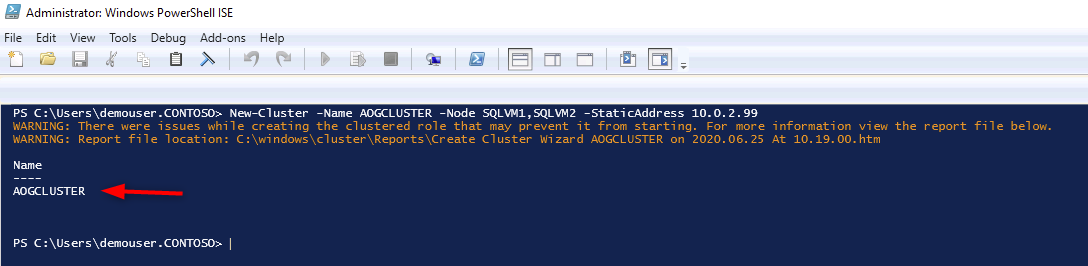
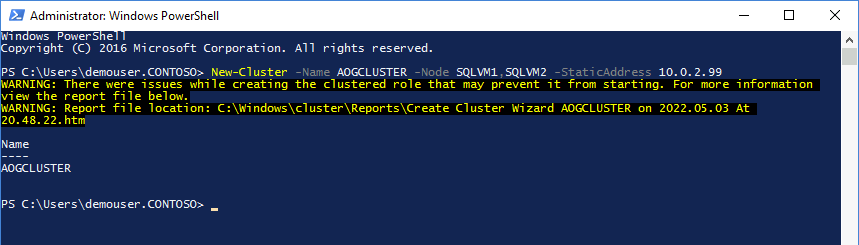
test fix updates

diff --git a/Hands-on lab/HOL step-by step - Building a resilient IaaS architecture.md b/Hands-on lab/HOL step-by step - Building a resilient IaaS architecture.md
@@ -127,12 +127,13 @@ A template will be used to save time. You will configure each tier in subsequent
 
     ![Screenshot of the Azure portal showing the HA template contents.](images/ha-template.png "Screenshot of the Azure portal showing the HA template contents.")
 
-    Note that the template contains four child templates, containing the various resources required for:
+    Note that the template contains five child templates, containing the various resources required for:
 
     -   The ADVM2 virtual machine, which will be a second Domain Controller.
     -   The SQLVM2 virtual machine, which will be a second SQL Server.
     -   The WebVM2 virtual machine, which will be a second web server.
     -   Two load balancers, one for the web tier, and one for the SQL tier.
+    -   The virtual network with the proper DNS configuration in place.
 
 4.  You can check the HA resource deployment status by navigating to the **ContosoRG1** resource group, selecting **Deployments** in the resource group left-nav, and checking the status of the deployments. Make sure the deployment status is **Succeeded** for all templates before proceeding the next task.
 
@@ -141,13 +142,13 @@ A template will be used to save time. You will configure each tier in subsequent
 
 ### Task 2: Configure HA for the Domain Controller tier
 
-In this task you will configure the virtual network to use the redundant Domain Controller VMs.
+In this task you will reboot all the virtual machines to ensure they receive the update DNS settings.
 
-When using a domain controller VM in Azure, other VMs in the virtual network must be configured to use the domain controller as their DNS server. This is achieved by setting the DNS settings in the virtual network. These settings are then picked up by the VMs when they reboot or renew their DHCP lease.
+When using a domain controller VM in Azure, other VMs in the virtual network must be configured to use the domain controller as their DNS server. This is achieved with the DNS settings in the virtual network. These settings are then picked up by the VMs when they reboot or renew their DHCP lease.
 
 The initial deployment included a first domain controller VM, **ADVM1**, with static private IP address **10.0.3.100**. The initial deployment also configured this IP address in the VNet DNS settings.
 
-The HA resources template has added a second domain controller **ADVM2**, with static private IP address **10.0.3.101**. This server has already been promoted to be a domain controller using a CustomScriptExtension (you can review this script if you like, you'll find it linked from the ADVM2 deployment template).
+The HA resources template has added a second domain controller **ADVM2**, with static private IP address **10.0.3.101**. This server has already been promoted to be a domain controller using a CustomScriptExtension (you can review this script if you like, you'll find it linked from the ADVM2 deployment template). The template also updated the DNS setting on the virtual network to include the IP address of the second domain controller.
 
 In this task, you will reboot all the servers to ensure they have the latest DNS settings.
 
@@ -194,7 +195,11 @@ In this task, you will build a Windows Failover Cluster and configure SQL Always
 
     > **Note:** The load-balancing rule in the load balancer has been created with **Floating IP (direct server return)** enabled. This is important when using the Azure load balancer for SQL Server AlwaysOn Availability Groups.
 
-7.  From the Azure portal, navigate to the **SQLVM1** virtual machine, select **Connect**, then choose **Bastion**. Connect to the machine using the following credentials:
+7.  From the Azure portal, navigate to the **SQLVM1** virtual machine, select **Connect**, then choose **Bastion**.
+   
+    ![Azure portal showing selecting Connect and then Bastion.](images/ha-sqlvm1-bastion.png)
+
+8.  Connect to the machine using the following credentials:
 
     - **Username**: `demouser@contoso.com`
     - **Password**: `Demo!pass123`
@@ -202,14 +207,13 @@ In this task, you will build a Windows Failover Cluster and configure SQL Always
     
     > **Note:** When using Azure Bastion to connect to a VM using domain credentials, the username must be specified in the format `user@domain-fqdn`, and **not** in the format `domain\user`.
 
-    ![Azure portal showing connection to SQLVM1 using Bastion.](images/ha-sqlvm1-bastion.png "Azure Bastion")
-   
+    ![Azure portal showing connection to SQLVM1 using Bastion.](images/ha-sqlvm1-bastion1.png)
 
-8.  On **SQLVM1**, select **Start** and then choose **Windows PowerShell ISE**.
+9.  On **SQLVM1**, select **Start** and then choose **Windows PowerShell**.
 
     ![Screenshot of the Windows PowerShell ISE icon.](images/image71.png "Windows PowerShell ISE icon")
 
-9.  Copy and paste  the following command into PowerShell ISE and execute it. This will create the Windows Failover Cluster and add all the SQL VMs as nodes in the cluster. It will also assign a static IP address of **10.0.2.99** to the new Cluster named **AOGCLUSTER**.
+10. Copy and paste  the following command into PowerShell ISE and execute it. This will create the Windows Failover Cluster and add all the SQL VMs as nodes in the cluster. It will also assign a static IP address of **10.0.2.99** to the new Cluster named **AOGCLUSTER**.
 
     ```PowerShell
     New-Cluster -Name AOGCLUSTER -Node SQLVM1,SQLVM2 -StaticAddress 10.0.2.99
@@ -219,139 +223,139 @@ In this task, you will build a Windows Failover Cluster and configure SQL Always
 
     >**Note:** It is possible to use a wizard for this task, but the resulting cluster will require additional configuration to set the static IP address in Azure.
 
-10. After the cluster has been created, select **Start** and then **Windows Administrative Tools**. Locate and open the **Failover Cluster Manager**.
+11. After the cluster has been created, select **Start** and then **Windows Administrative Tools**. Locate and open the **Failover Cluster Manager**.
 
     ![Screenshot of the Failover Cluster Manager shortcut icon.](images/image154.png "Failover Cluster Manager shortcut icon")
 
-11. When the cluster opens, select **Nodes** and the SQL Server VMs will show as nodes of the cluster and show their status as **Up**.
+12. When the cluster opens, select **Nodes** and the SQL Server VMs will show as nodes of the cluster and show their status as **Up**.
 
     ![In Failover Cluster Manager, Nodes is selected in the tree view, and two nodes display in the details pane.](images/ha-fcm-2nodes.png "Failover Cluster Manager")
 
-12. If you select **Roles**, you will notice that currently, there aren't any roles assigned to the cluster.
+13. If you select **Roles**, you will notice that currently, there aren't any roles assigned to the cluster.
 
     ![In Failover Cluster Manager, Roles is selected in the tree view, and zero roles display in the details pane.](images/ha-fcm-0roles.png "Failover Cluster Manager")
 
-13. Select Networks, and you will see **Cluster Network 1** with status **Up**. If you navigate to the network, you will see the IP address space, and on the lower tab you can select **Network Connections** and review the nodes.
+14. Select Networks, and you will see **Cluster Network 1** with status **Up**. If you navigate to the network, you will see the IP address space, and on the lower tab you can select **Network Connections** and review the nodes.
 
     ![In Failover Cluster Manager, Networks is selected in the tree view, and the network displays in the details pane.](images/ha-fcm-1network.png "Failover Cluster Manager")
 
-14. Right-click **AOGCLUSTER,** then select **More Actions**, **Configure Cluster Quorum Settings**.
+15. Right-click **AOGCLUSTER,** then select **More Actions**, **Configure Cluster Quorum Settings**.
 
     ![In Failover Cluster Manager, a call out says to right-click the cluster name in the tree view, then select More Actions, and then select Configure Cluster Quorum Settings.](images/image159.png "Failover Cluster Manager")
 
-15. On the **Configure Cluster Quorum Wizard** select **Next**, then choose **Select the quorum witness**. Then, select **Next** again.
+16. On **Before you Begin** in the wizard, select **Next**. Then choose **Select the quorum witness**. Then, select **Next** again.
 
     ![On the Select Quorum Configuration Option screen of the Configure Cluster Quorum Wizard, the radio button for Select the quorum witness is selected.](images/image160.png "Configure Cluster Quorum Wizard")
 
-16. Select **Configure a cloud witness** and **Next**.
+17. Select **Configure a cloud witness** and **Next**.
 
     ![On the Select Quorum Witness screen, the radio button for Configure a cloud witness is selected.](images/image161.png "Select Quorum Witness screen")
 
-17. Copy the **storage account name** and **storage account key** values which you noted earlier and paste them into their respective fields on the form. Leave the Azure Service endpoint as configured. Then, select **Next**.
+18. Copy the **storage account name** and **storage account key** values which you noted earlier and paste them into their respective fields on the form. Leave the Azure Service endpoint as configured. Then, select **Next**.
 
     ![Fields on the Configure cloud witness screen are set to the previously defined settings.](images/ha-cloudwitness-key.png "Configure cloud witness screen")
 
-18. Select **Next** on the Confirmation screen.
+19. Select **Next** on the Confirmation screen.
 
     ![On the Confirmation screen, the Next button is selected.](images/image163.png "Confirmation screen")
 
-19. Select **Finish**.
+20. Select **Finish**.
 
     ![Finish is selected on the Summary screen.](images/image164.png "Summary screen")
 
-20. Select the name of the Cluster again and the **Cloud Witness** should now appear in the **Cluster Resources**. It's important to always use a third data center, in your case here a third Azure Region to be your Cloud Witness.
+21. Select the name of the Cluster again and the **Cloud Witness** should now appear in the **Cluster Resources**. It's important to always use a third data center, in your case here a third Azure Region to be your Cloud Witness.
 
     ![Under Cluster Core Resources, the Cloud Witness status is Online.](images/image165.png "Cluster Core Resources section")
 
-21. Select **Start** and launch **SQL Server 2017 Configuration Manager**.
+22. Select **Start** and launch **SQL Server 2017 Configuration Manager**.
 
     ![Screenshot of the SQL Server 2017 Configuration Manager option on the Start menu.](images/image166.png "SQL Server 2017 Configuration Manager option")
 
-22. Select **SQL Server Services**, then right-click **SQL Server (MSSQLSERVER)** and select **Properties**.
+23. Select **SQL Server Services**, then right-click **SQL Server (MSSQLSERVER)** and select **Properties**.
 
     ![In SQL Server 2017 Configuration Manager, in the left pane, SQL Server Services is selected. In the right pane, SQL Server (MSSQLSERVER) is selected, and from its right-click menu, Properties is selected.](images/image167.png "SQL Server 2017 Configuration Manager")
 
-23. Select the **AlwaysOn High Availability** tab and check the box for **Enable Always OnAvailability Groups**. Select **Apply** and then select **OK** on the message that notifies you that changes won't take effect until after the server is restarted.
+24. Select the **AlwaysOn High Availability** tab and check the box for **Enable Always OnAvailability Groups**. Select **Apply** and then select **OK** on the message that notifies you that changes won't take effect until after the server is restarted.
 
     ![In the SQL Server Properties dialog box, on the AlwaysOn High Availability tab, the Enable Always OnAvailability Groups checkbox is checked and the Apply button is selected.](images/image168.png "SQL Server Properties dialog box")
 
     ![A pop-up warns that any changes made will not take effect until the service stops and restarts. The OK button is selected.](images/image169.png "Warning pop-up")
 
-24. On the **Log On** tab, change the service account to `contoso\demouser` with the password `Demo!pass123`. Select **OK** to accept the changes, and then select **Yes** to confirm the restart of the server.
+25. On the **Log On** tab, change the service account to `contoso\demouser` with the password `Demo!pass123`. Select **OK** to accept the changes, and then select **Yes** to confirm the restart of the server.
 
     ![In the SQL Server Properties dialog box, on the Log On tab, fields are set to the previously defined settings. The OK button is selected.](images/ha-sql-logon.png "SQL Server Properties dialog box")
 
     ![A pop-up asks you to confirm that you want to make the changes and restart the service. The Yes button is selected.](images/image171.png "Confirm Account Change pop-up")
 
-25. Return to the Azure portal and open a new Azure Bastion session to **SQLVM2**. Launch **SQL Server 2017 Configuration Manager** and repeat the steps above to **Enable SQL AlwaysOn** and change the **Log On** username. Make sure that you have restarted the SQL Service.
+26. Return to the Azure portal and open a new Azure Bastion session to **SQLVM2**. Launch **SQL Server 2017 Configuration Manager** and repeat the steps above to **Enable SQL AlwaysOn** and change the **Log On** username. Make sure that you have restarted the SQL Service.
 
-26. Return to the Azure portal and open a second Azure Bastion session to **SQLVM2**. This time use `demouser` as the username instead of `demouser@contoso.com`.
+27. Return to the Azure portal and open a second Azure Bastion session to **SQLVM2**. This time use `demouser` as the username instead of `demouser@contoso.com`.
 
-27. Launch SQL Server Management Studio and expand **Security** and then **Logins**. You'll notice that only `SQLVM2\demouser` is listed.
+28. Launch SQL Server Management Studio and expand **Security** and then **Logins**. You'll notice that only `SQLVM2\demouser` is listed.
 
     ![In SQL Server management studio, SQLVM2 is expanded, then Security is expanded, then Login is expanded. Only the SQLVM2\demouser account is seen.](images/perm-checkdomainuser.png)
 
-28. Right-click on **Logins** and then select **New Login...**
+29. Right-click on **Logins** and then select **New Login...**
 
     ![The dialog box from the right-click on Logins is shown with an option to select New Login.](images/perm-newlogin.png)
 
-29. In **Login name:**, type contoso\demouser, then select **Server Roles**.
+30. In **Login name:**, type contoso\demouser, then select **Server Roles**.
 
     ![The Login-New dialog box is displayed. In the Login name: box, the username contoso\demouser has been typed in. From here, it shows you selected the Server Roles tab in the left side navigation.](images/perm-addusername.png)
 
-30. Check the box for **sysadmin** and select **OK**. You'll now see `contoso\demouser` listed in the login list.
+31. Check the box for **sysadmin** and select **OK**. You'll now see `contoso\demouser` listed in the login list.
 
     ![The Server Roles tab is shown in the Login - New dialog box. In this dialog box, public remains checked, and a check is added to the sysadmin option.](images/perm-addsysadmin.png)
 
-31. Return to your session with **SQLVM1**. Use the Start menu to launch **Microsoft SQL Server Management Studio 18** and connect to the local instance of SQL Server. (Located in the Microsoft SQL Server Tools folder).
+32. Return to your session with **SQLVM1**. Use the Start menu to launch **Microsoft SQL Server Management Studio 18** and connect to the local instance of SQL Server. (Located in the Microsoft SQL Server Tools folder).
 
     ![Screenshot of Microsoft SQL Server Management Studio 18 on the Start menu.](images/image172.png "Microsoft SQL Server Management Studio 18")
 
-32. Select **Connect** to sign on to **SQLVM1**. **Note**: The username for your lab should show **CONTOSO\demouser**.
+33. Select **Connect** to sign on to **SQLVM1**. **Note**: The username for your lab should show **CONTOSO\demouser**.
 
     ![Screenshot of the Connect to Server dialog box.](images/image173.png "Connect to Server dialog box")
 
-33. Right-click **Always On High Availability**, then select **New Availability Group Wizard**.
+34. Right-click **Always On High Availability**, then select **New Availability Group Wizard**.
 
     ![In Object Explorer, AlwaysOn High Availability is selected, and from its right-click menu, New Availability Group Wizard is selected.](images/image174.png "SQ Server Management Studio, Object Explorer")
 
-34. Select **Next** on the Wizard.
+35. Select **Next** on the Wizard.
 
     ![On the New Availability Group Wizard begin page, Next is selected.](images/image175.png "New Availability Group Wizard ")
 
-35. Provide the name **BCDRAOG** for the **Availability group name**, then select **Next**.
+36. Provide the name **BCDRAOG** for the **Availability group name**, then select **Next**.
 
     ![The Specify availability group options form displays the previous availability group name.](images/image176.png "Specify availability group options page")
 
-36. Select the **ContosoInsurance Database**, then select **Next**.
+37. Select the **ContosoInsurance Database**, then select **Next**.
 
     ![The ContosoInsurance database is selected from the user databases list.](images/image177.png "Select Databases page")
 
-37. On the **Specify Replicas** screen next to **SQLVM1**, select **Automatic Failover**.
+38. On the **Specify Replicas** screen next to **SQLVM1**, select **Automatic Failover**.
 
     ![On the Replicas tab, for SQLVM1, the checkbox for Automatic Failover (Up to 3) is selected.](images/image178.png "Specify Replicas screen")
 
-38. Select **Add Replica**.
+39. Select **Add Replica**.
 
     ![Screenshot of the Add replica button.](images/image179.png "Add replica button")
 
-39. On the **Connect to Server** dialog box enter the Server Name of **SQLVM2** and select **Connect**. **Note**: The username for your lab should show **CONTOSO\demouser**.
+40. On the **Connect to Server** dialog box enter the Server Name of **SQLVM2** and select **Connect**. **Note**: The username for your lab should show **CONTOSO\demouser**.
 
     ![Screenshot of the Connect to Server dialog box for SQLVM2.](images/image180.png "Connect to Server dialog box")
 
-40. For **SQLVM2**, select Automatic Failover and Availability Mode of Synchronous commit.
+41. For **SQLVM2**, select Automatic Failover and Availability Mode of Synchronous commit.
 
     ![On the Replicas tab, for SQLVM2, the checkbox for Automatic Failover (Up to 3) is selected, and availability mode is set to synchronous commit.](images/image181.png "Specify Replicas Screen")
 
-41. Select **Endpoints** and review these that the wizard has created.
+42. Select **Endpoints** and review these that the wizard has created.
 
     ![On the Endpoints tab, the three servers are listed.](images/ha-ag-endpoints.png "Specify Endpoints screen")
 
-42. Next, select **Listener**. Then, select the **Create an availability group listener**.
+43. Next, select **Listener**. Then, select the **Create an availability group listener**.
 
     ![On the Listener tab, the radio button for Create an availability group listener is selected.](images/image185.png "Specify Listener screen")
 
-43. Add the following details:
+44. Add the following details:
 
     - **Listener DNS Name**: BCDRAOG
     - **Port**: 1433
@@ -359,55 +363,55 @@ In this task, you will build a Windows Failover Cluster and configure SQL Always
 
     ![Fields for the Listener details are set to the previously defined settings.](images/image186.png "Listener details")
 
-44. Next, select **Add**.
+45. Next, select **Add**.
 
     ![The Add button is selected beneath an empty subnet table.](images/image187.png "Add button")
 
-45. Select the Subnet of **10.0.2.0/24** and then add IPv4 **10.0.2.100** and select **OK**. This is the IP address of the Internal Load Balancer that is in front of the **SQLVM1** and **SQLVM2** in the **Data** subnet running in the **Primary** Site.
+46. Select the Subnet of **10.0.2.0/24** and then add IPv4 **10.0.2.100** and select **OK**. This is the IP address of the Internal Load Balancer that is in front of the **SQLVM1** and **SQLVM2** in the **Data** subnet running in the **Primary** Site.
 
     ![The Add IP Address dialog box fields are set to the previously defined settings.](images/image188.png "Add IP Address dialog box")
 
-46. Select **Next**.
+47. Select **Next**.
 
     ![On the Listener tab, the Next button is selected.](images/ha-ag-listener-next.png "Next button")
 
-47. On the **Select Initial Data Synchronization** screen, make sure that **Automatic seeding** is selected and select **Next**.
+48. On the **Select Initial Data Synchronization** screen, make sure that **Automatic seeding** is selected and select **Next**.
 
     ![On the Select Initial Data Synchronization screen, the radio button for Automatic seeding is selected. The Next button is selected at the bottom of the form.](images/image192.png "Select Initial Data Synchronization screen")
 
-48. On the **Validation** screen, you should see all green. Select **Next**.
+49. On the **Validation** screen, you should see all green. Select **Next**.
 
     ![The Validation screen displays a list of everything it is checking, and the results for each, which all display success. The Next button is selected.](images/ha-ag-valid.png "Validation screen")
 
-49. On the Summary page select **Finish**.
+50. On the Summary page select **Finish**.
 
     ![On the Summary page, the Finish button is selected.](images/image194.png "Summary page")
 
-50. Once the AOG is built, check each task was successful and select **Close**.
+51. Once the AOG is built, check each task was successful and select **Close**.
 
     ![On the New Availability Group Results page, a message says the wizard has completed successfully, and results for all steps is success. The Close button is selected.](images/ha-ag-results.png "New Availability Group Results page")
 
-51. Move back to **SQL Management Studio** on **SQLVM1** and expand the **Always On High Availability** item in the tree view. Under Availability Groups, expand the **BCDRAOG (Primary)** item.
+52. Move back to **SQL Management Studio** on **SQLVM1** and expand the **Always On High Availability** item in the tree view. Under Availability Groups, expand the **BCDRAOG (Primary)** item.
 
     ![In SQL Management Studio, Always On High Availability is expanded in the tree view.](images/ha-ag-explorer.png "SQL Management Studio")
 
-52. Right-click **BCDRAOG (Primary)** and then select **Show Dashboard**. You should see that all the nodes have been added and are now "Green".
+53. Right-click **BCDRAOG (Primary)** and then select **Show Dashboard**. You should see that all the nodes have been added and are now "Green".
 
     ![Screenshot of the BCDRAOG Dashboard indicating the status of all SQL Server VMs as healthy.](images/ha-ag-dashboard.png "BCDRAOG Dashboard")
 
-53. Next, select **Connect** and then **Database Engine** in SQL Management Studio.
+54. Next, select **Connect** and then **Database Engine** in SQL Management Studio.
 
     ![Connect / Database Engine is selected in Object Explorer.](images/image200.png "Object Explorer")
 
-54. Enter **BCDRAOG** as the Server Name. This will be connected to the listener of the group that you created. **Note**: The username for your lab should show **CONTOSO\demouser**.
+55. Enter **BCDRAOG** as the Server Name. This will be connected to the listener of the group that you created. **Note**: The username for your lab should show **CONTOSO\demouser**.
 
     ![In the Connect to Server Dialog box, Server name is BCDRAOG, and the connect button is selected.](images/image201.png "Connect to Server Dialog box")
 
-55. Once connected to the **BCDRAOG**, you can select **Databases** and will be able to see the database there. Notice that you have no knowledge directly of which server this is running on.
+56. Once connected to the **BCDRAOG**, you can select **Databases** and will be able to see the database there. Notice that you have no knowledge directly of which server this is running on.
 
     ![A call out points to ContosoInsurance (Synchronized) in SQL Management Studio.](images/image202.png "SQL Management Studio")
 
-56. Move back to **PowerShell ISE** on **SQLVM1**. Open a new file, paste in the following script, and select the **Play** button. This will update the Failover cluster with the IP address of the Listener that you created for the AOG.
+57. Move back to **PowerShell ISE** on **SQLVM1**. Open a new file, paste in the following script, and select the **Play** button. This will update the Failover cluster with the IP address of the Listener that you created for the AOG.
 
     ```Powershell
     $ClusterNetworkName = "Cluster Network 1"
@@ -421,21 +425,21 @@ In this task, you will build a Windows Failover Cluster and configure SQL Always
 
     ![In the Windows PowerShell ISE window, the play button is selected. The script from the lab guide has been executed.](images/ha-ise-listenerip.png "Windows PowerShell ISE window")
 
-57. Move back to SQL Management Studio and select **Connect** and then **Database Engine**.
+58. Move back to SQL Management Studio and select **Connect** and then **Database Engine**.
 
     ![In Object Explorer, Connect / Database Engine is selected.](images/image200.png "Object Explorer")
 
-58. This time, put the following into the IP address of the Internal Load balancer of the **Primary** Site AOG Load Balancer: **10.0.2.100**. You again will be able to connect to the server which is up and running as the master. **Note**: The username for your lab should show **CONTOSO\demouser**.
+59. This time, put the following into the IP address of the Internal Load balancer of the **Primary** Site AOG Load Balancer: **10.0.2.100**. You again will be able to connect to the server which is up and running as the master. **Note**: The username for your lab should show **CONTOSO\demouser**.
 
     ![Fields in the Connect to Server dialog box are set to the previously defined settings.](images/image205.png "Connect to Server dialog box")
 
-59. Once connected to **10.0.2.100**, you can select **Databases** and will be able to see the database there. Notice that you have no knowledge directly of which server this is running on.
+60. Once connected to **10.0.2.100**, you can select **Databases** and will be able to see the database there. Notice that you have no knowledge directly of which server this is running on.
 
     ![A call out points to the Databases folder in Object Explorer.](images/ha-ssms-ip.png "Object Explorer")
 
     > **Note:** It could take a minute to connect the first time as this is going through the Azure Internal Load Balancer.
 
-60. Move back to Failover Cluster Manager on **SQLVM1**, and you can review the IP Addresses that were added by selecting Roles and **BCDRAOG** and viewing the Resources. Notice how the **10.0.2.100** is Online.
+61. Move back to Failover Cluster Manager on **SQLVM1**, and you can review the IP Addresses that were added by selecting Roles and **BCDRAOG** and viewing the Resources. Notice how the **10.0.2.100** is Online.
 
     ![In the Failover Cluster Manager tree view, Roles is selected. Under Roles, BCDRAOG is selected, and details of the role display.](images/ha-fcm-aogrole.png "Failover Cluster Manager")
 

diff --git a/Hands-on lab/Before the HOL - Building a resilient IaaS architecture.md b/Hands-on lab/Before the HOL - Building a resilient IaaS architecture.md
@@ -70,7 +70,7 @@ In this task, you will use an Azure Resource Manager template to deploy the LabV
 
     ![Screenshot of the Azure portal showing the custom template deployment settings for the LabVM.](images/BeforeTheHOL/labvm-deploy1.png "Screenshot of the Azure portal showing the custom template deployment settings for the LabVM")
 
-    You should proceed to the next task **without** waiting for the deployment to complete. This saves time.
+    You should proceed to the next task **without** waiting for the deployment to complete. This saves time. This can take up to 30 minutes to deploy the resources.
 
 ### Task 2: Deploy the Contoso sample application
 
@@ -88,7 +88,7 @@ In this task, you will use an Azure Resource Manager template to deploy the Cont
     - Resource Group: **(Create new) ContosoRG1**
     - Location: **Central US**
 
-    Select **Review + Create** and then **Create** to deploy the resources.
+    Select **Review + Create** and then **Create** to deploy the resources. It usually takes around 20 minutes to deploy the resources.
 
     ![The custom deployment screen with ContosoRG1 as the resource group and Central US as the region.](images/BeforeTheHOL/contoso-deploy1.png "Custom deployment")
     
